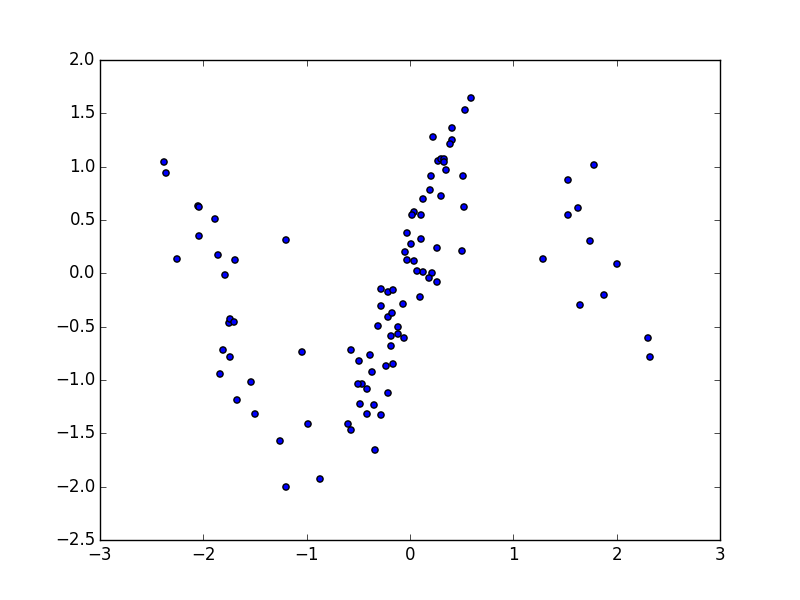
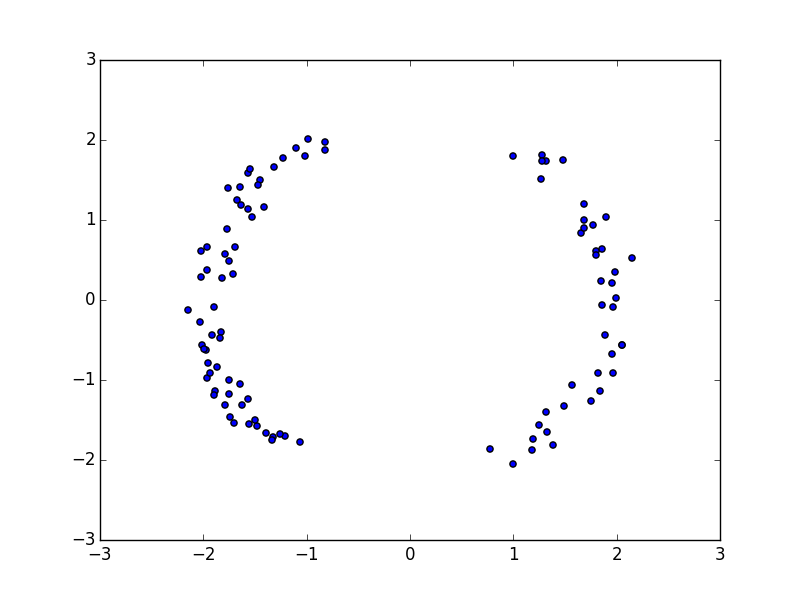
Need to write sanity checks now

diff --git a/experiments/2-test-langevin/2/main.py b/experiments/2-test-langevin/2/main.py
@@ -1,0 +1,111 @@
+# Main demo script
+import autograd.numpy as np
+from autograd import value_and_grad
+from scipy.optimize import minimize
+import numpy.linalg
+import matplotlib.image
+import pickle
+
+from autograd import grad
+
+import matplotlib.pyplot as plt
+
+from autopaint.util import fast_array_from_list
+from autopaint.plotting import *
+from autopaint.inference import build_langevin_sampler
+
+def logprob_two_moons(z):
+    z1 = z[0]
+    z2 = z[1]
+    return - 0.5 * ((np.sqrt(z1**2 + z2**2) - 2 ) / 0.4)**2\
+            + np.logaddexp(-0.5 * ((z1 - 2) / 0.6)**2, -0.5 * ((z1 + 2) / 0.6)**2)
+
+def logprob_wiggle(z):
+    z1 = z[0]
+    z2 = z[1]
+    return -0.5 * (z2 - np.sin(2.0 * np.pi * z1 / 4.0) / 0.4 )**2 + 0.2 * (z1**2 + z2**2)
+
+cov = np.array([[1.0, 0.9], [0.9, 1.0]])
+pinv = np.linalg.pinv(cov)
+(sign, logdet) = numpy.linalg.slogdet(cov)
+const =  -0.5 * 2 * np.log(2*np.pi) - 0.5 * logdet
+def logprob_mvn(z):
+    return const - 0.5 * np.dot(np.dot(z.T, pinv), z)
+
+def plot_sampler_params(params, filename):
+
+    mean = parser.get(params, 'mean')
+    stddev = parser.get(params, 'stddev')
+    stepsizes = np.exp(parser.get(params, 'log_stepsizes'))
+    noise_sizes = np.exp(parser.get(params, 'log_noise_sizes'))
+
+    # ----- Nice versions of Alpha and beta schedules for paper -----
+    fig = plt.figure(0)
+    fig.clf()
+    ax = fig.add_subplot(411)
+    ax.plot(mean, 'o-')
+    ax.set_ylabel('Mean', fontproperties='serif')
+
+    ax = fig.add_subplot(412)
+    ax.plot(stddev, 'o-')
+    ax.set_ylabel('stddev', fontproperties='serif')
+
+    ax = fig.add_subplot(413)
+    ax.plot(stepsizes, 'o-')
+    ax.set_ylabel('stepsizes', fontproperties='serif')
+
+    ax = fig.add_subplot(414)
+    ax.plot(noise_sizes, 'o-')
+    ax.set_ylabel('noise_sizes', fontproperties='serif')
+
+    plt.savefig(filename)
+
+
+if __name__ == '__main__':
+
+    num_samples = 200
+    num_langevin_steps = 3
+    num_sampler_optimization_steps = 20
+    sampler_learn_rate = 0.01
+
+    D = 2
+    init_mean = np.ones(D)
+    init_stddevs = np.ones(D) / 100
+    init_log_stepsizes = np.log(0.01*np.ones(num_langevin_steps))
+    init_log_noise_sizes = np.log(0.1*np.ones(num_langevin_steps))
+
+    rs = np.random.npr.RandomState(0)
+
+    sample_and_run_langevin, parser = build_langevin_sampler(logprob_mvn, D, num_langevin_steps)
+
+    sampler_params = np.zeros(len(parser))
+    parser.put(sampler_params, 'mean', init_mean)
+    parser.put(sampler_params, 'stddev', init_stddevs)
+    parser.put(sampler_params, 'log_stepsizes', init_log_stepsizes)
+    parser.put(sampler_params, 'log_noise_sizes', init_log_noise_sizes)
+
+    def get_batch_marginal_likelihood_estimate(sampler_params):
+        samples = [] # np.zeros((num_samples, D))
+        mls = []
+        for s in range(num_samples):
+            z, marginal_likelihood_estimate = sample_and_run_langevin(sampler_params, rs)
+            samples.append(z.value)
+            mls.append(marginal_likelihood_estimate)
+
+        samples = fast_array_from_list(samples)
+        plot_density(samples, "approximating_dist.png")
+        return np.mean(mls)
+
+    ml_and_grad = value_and_grad(get_batch_marginal_likelihood_estimate)
+
+    # Optimize Langevin parameters.
+    for i in xrange(num_sampler_optimization_steps):
+        ml, dml = ml_and_grad(sampler_params)
+        print "log marginal likelihood:", ml
+        plot_sampler_params(sampler_params, 'sampler_params.png')
+        sampler_params = sampler_params + sampler_learn_rate * dml
+
+
+
+
+

diff --git a/experiments/2-test-langevin/1/main.py b/experiments/2-test-langevin/1/main.py
@@ -6,6 +6,8 @@ import numpy.linalg
 import matplotlib.image
 import pickle
 
+from autograd import grad
+
 from autopaint.plotting import *
 from autopaint.recognition import build_langevin_sampler
 
@@ -25,7 +27,8 @@ def test_energy_wiggle(z):
 if __name__ == '__main__':
 
     num_samples = 100
-    num_langevin_steps = 5
+    num_langevin_steps = 25
+    num_sampler_optimization_steps = 100
 
     D = 2
     init_mean = np.zeros(D)
@@ -35,7 +38,7 @@ if __name__ == '__main__':
 
     rs = np.random.npr.RandomState(0)
 
-    sample_and_run_langevin, parser = build_langevin_sampler(test_energy_wiggle, D)
+    sample_and_run_langevin, parser = build_langevin_sampler(test_energy_two_moons, D)
 
     sampler_params = np.zeros(len(parser))
     parser.put(sampler_params, 'mean', init_mean)
@@ -43,11 +46,23 @@ if __name__ == '__main__':
     parser.put(sampler_params, 'stepsizes', init_stepsizes)
     parser.put(sampler_params, 'noise_sizes', init_noise_sizes)
 
-    samples = np.zeros((num_samples, D))
-    for s in range(num_samples):
-        z, marginal_likelihood_estimate = sample_and_run_langevin(sampler_params, rs)
-        samples[s, :] = z
+    def get_batch_marginal_likelihood_estimate(sampler_params):
+        samples = [] # np.zeros((num_samples, D))
+        mls = []
+        for s in range(num_samples):
+            z, marginal_likelihood_estimate = sample_and_run_langevin(sampler_params, rs)
+            #samples.append(z)
+            mls.append(marginal_likelihood_estimate)
+        #plot_density(samples, "approximating_dist.png")
+        return np.sum(mls)
 
-    plot_density(samples, "approximating_dist.png")
+    ml_and_grad = value_and_grad(get_batch_marginal_likelihood_estimate)
+
+    for i in xrange(num_sampler_optimization_steps):
+        ml, dml = ml_and_grad(sampler_params)
+        print "ml:", ml
+        sampler_params = sampler_params + 0.01 * dml
+
+
 
 

diff --git a/autopaint/inference.py b/autopaint/inference.py
@@ -59,12 +59,13 @@ def gradient_ascent_entropic(gradfun, entropy, x, stepsizes, noise_sizes, rs, ca
         x = x + noise
 
         # Update entropy estimate.
+        entropy += delta_entropy
         noise_entropy = entropy_of_a_spherical_gaussian(noise_sizes[t], D)
         entropy = sum_entropy_lower_bound(entropy, noise_entropy, D)
 
     return x, entropy
 
-def build_langevin_sampler(target_nll_func, D, num_steps):
+def build_langevin_sampler(loglik_func, D, num_steps):
 
     # Build parser
     parser = WeightsParser()
@@ -73,7 +74,7 @@ def build_langevin_sampler(target_nll_func, D, num_steps):
     parser.add_shape('log_stepsizes', num_steps)
     parser.add_shape('log_noise_sizes', num_steps)
 
-    gradfun = grad(target_nll_func)
+    gradfun = grad(loglik_func)
 
     def sample_and_run_langevin(params, rs, callback=None):
         mean = parser.get(params, 'mean')
@@ -87,7 +88,7 @@ def build_langevin_sampler(target_nll_func, D, num_steps):
         z, final_entropy = gradient_ascent_entropic(gradfun, entropy=initial_entropy, x=init_x,
                                                     stepsizes=stepsizes, noise_sizes=noise_sizes,
                                                     rs=rs, callback=callback, approx=True)
-        loglik_estimate = -target_nll_func(z)
+        loglik_estimate = loglik_func(z)
         marginal_likelihood_estimate = loglik_estimate + final_entropy
         return z, marginal_likelihood_estimate
 
